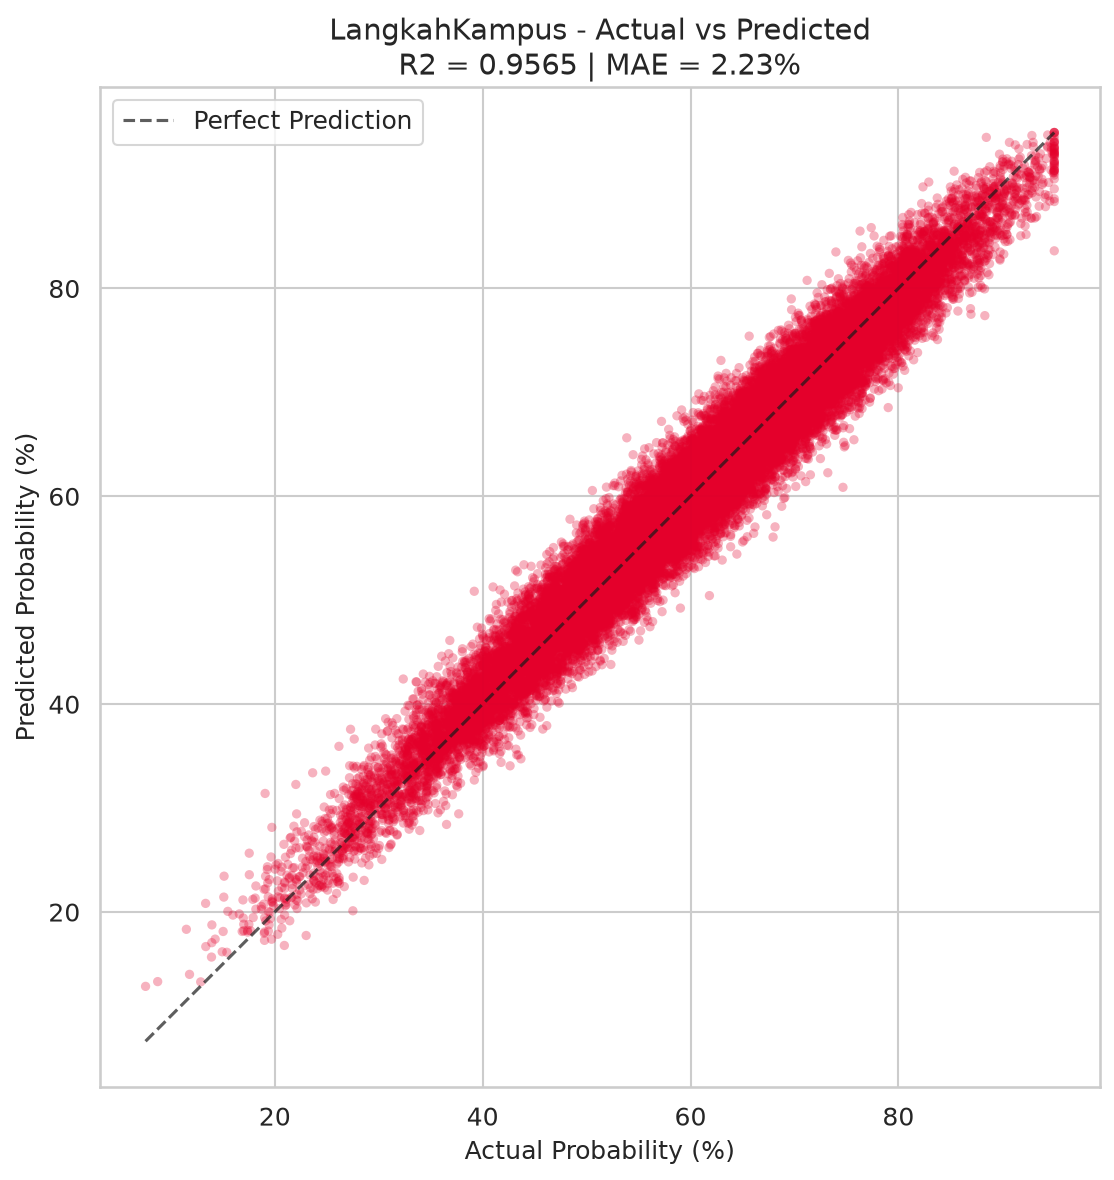
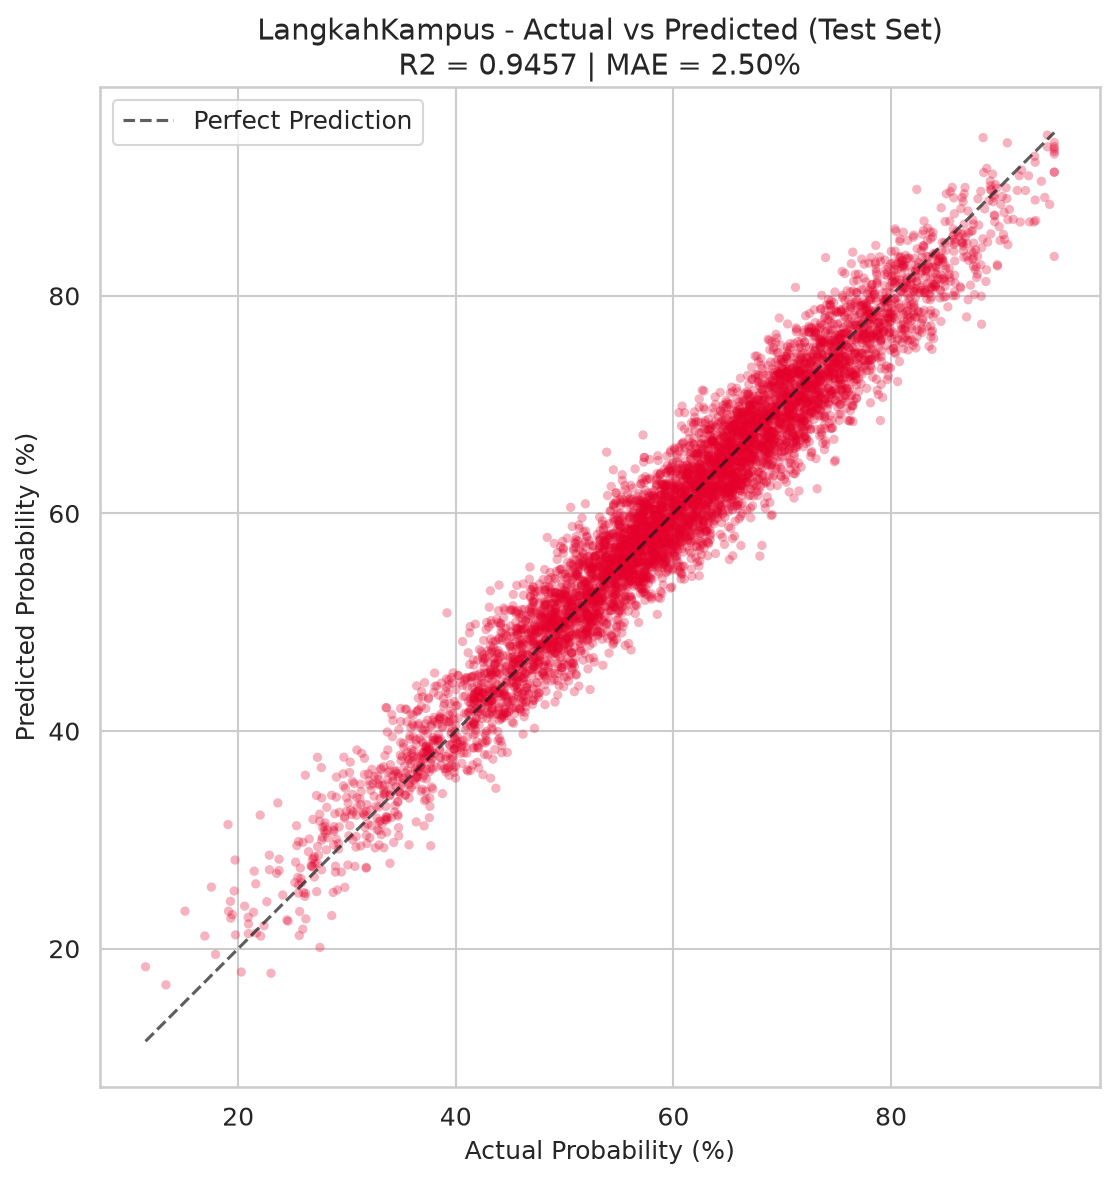
fix: address review findings - history truncation, context reset, test set evaluation
- Fix history truncation to keep newest entries (history[-MAX_HISTORY_ENTRIES:])
- Align MAX_HISTORY_ENTRIES to 20 to match client-side 20-message limit
- Reset conversationHistory in JS when predictionContext changes
- Use train/test split (80/20, random_state=42) in visualize_evaluation.py
- Update chart titles to indicate Test Set evaluation
- Regenerate evaluation chart PNGs with test set data

diff --git a/website/assets/js/advisor.js b/website/assets/js/advisor.js
@@ -5,6 +5,8 @@
 
 // Conversation history for multi-turn chat (max 10 exchanges)
 var conversationHistory = [];
+// Track the last prediction context to detect changes
+var lastPredictionContextKey = null;
 
 document.addEventListener('DOMContentLoaded', function() {
     initChatForm();
@@ -61,6 +63,13 @@ function sendMessage(message) {
             // Ignore invalid stored data
         }
     }
+
+    // Reset conversation history if the prediction context has changed
+    var currentContextKey = predictionContext || '';
+    if (lastPredictionContextKey !== null && currentContextKey !== lastPredictionContextKey) {
+        conversationHistory = [];
+    }
+    lastPredictionContextKey = currentContextKey;
 
     // Include conversation history (limit to last 10 exchanges = 20 messages)
     if (conversationHistory.length > 0) {

diff --git a/ai_backend/training/visualize_evaluation.py b/ai_backend/training/visualize_evaluation.py
@@ -25,6 +25,7 @@ import numpy as np
 import pandas as pd
 import seaborn as sns
 from sklearn.metrics import mean_absolute_error, r2_score
+from sklearn.model_selection import train_test_split
 
 # Paths
 TRAINING_DATA_PATH = os.path.join(
@@ -146,7 +147,7 @@ def plot_actual_vs_predicted(y_actual, y_predicted, output_path):
     ax.set_xlabel("Actual Probability (%)")
     ax.set_ylabel("Predicted Probability (%)")
     ax.set_title(
-        f"LangkahKampus - Actual vs Predicted\n"
+        f"LangkahKampus - Actual vs Predicted (Test Set)\n"
         f"R2 = {r2:.4f} | MAE = {mae:.2f}%"
     )
     ax.legend(loc="upper left")
@@ -183,7 +184,7 @@ def plot_prediction_distribution(y_actual, y_predicted, output_path):
 
     ax.set_xlabel("Probability (%)")
     ax.set_ylabel("Count")
-    ax.set_title("LangkahKampus - Prediction Distribution\n(Actual vs Predicted)")
+    ax.set_title("LangkahKampus - Prediction Distribution (Test Set)\n(Actual vs Predicted)")
     ax.legend()
 
     plt.tight_layout()
@@ -216,7 +217,7 @@ def plot_residuals(y_actual, y_predicted, output_path):
 
     ax.set_xlabel("Predicted Probability (%)")
     ax.set_ylabel("Residual (Actual - Predicted) (%)")
-    ax.set_title("LangkahKampus - Residual Plot\n(Model Error Analysis)")
+    ax.set_title("LangkahKampus - Residual Plot (Test Set)\n(Model Error Analysis)")
     ax.legend()
 
     plt.tight_layout()
@@ -251,8 +252,14 @@ def main():
     X = df[FEATURE_COLS].values
     y = df[TARGET_COL].values
 
-    # Generate predictions
-    y_pred = np.clip(model.predict(X), 0.05, 0.95)
+    # Use a held-out test set (80/20 split) for honest evaluation
+    X_train, X_test, y_train, y_test = train_test_split(
+        X, y, test_size=0.2, random_state=42
+    )
+    print(f"Train/Test split: {len(X_train)} train, {len(X_test)} test samples")
+
+    # Generate predictions on the TEST set only
+    y_pred = np.clip(model.predict(X_test), 0.05, 0.95)
 
     # Setup output directory
     os.makedirs(OUTPUT_DIR, exist_ok=True)
@@ -270,17 +277,17 @@ def main():
     )
 
     plot_actual_vs_predicted(
-        y, y_pred,
+        y_test, y_pred,
         os.path.join(OUTPUT_DIR, "actual_vs_predicted.png"),
     )
 
     plot_prediction_distribution(
-        y, y_pred,
+        y_test, y_pred,
         os.path.join(OUTPUT_DIR, "prediction_distribution.png"),
     )
 
     plot_residuals(
-        y, y_pred,
+        y_test, y_pred,
         os.path.join(OUTPUT_DIR, "residual_plot.png"),
     )
 

diff --git a/ai_backend/app/services/advisor.py b/ai_backend/app/services/advisor.py
@@ -73,8 +73,8 @@ def _sanitize_message(message: str) -> str:
     return message.strip()
 
 
-# Maximum number of history entries allowed
-MAX_HISTORY_ENTRIES = 10
+# Maximum number of history entries allowed (matches client-side limit of 20 messages)
+MAX_HISTORY_ENTRIES = 20
 
 
 async def get_advisor_response(
@@ -93,7 +93,7 @@ async def get_advisor_response(
     # Validate and sanitize conversation history
     validated_history = []
     if history:
-        for entry in history[:MAX_HISTORY_ENTRIES]:
+        for entry in history[-MAX_HISTORY_ENTRIES:]:
             if isinstance(entry, dict):
                 role = entry.get("role", "")
                 content = entry.get("content", "")

diff --git a/.agents/tasks/task-phase5-enhancement-polish/2026-06-30-161500-review.md b/.agents/tasks/task-phase5-enhancement-polish/2026-06-30-161500-review.md
@@ -1,0 +1,99 @@
+# Phase 5 Enhancement & Submission Polish
+
+This change adds five presentation-oriented features for hackathon submission: an AMD GPU training script with ROCm detection, model evaluation chart generation, multi-turn conversation history in the AI advisor, two new AMD-branded landing page sections, and an end-to-end demo script with mock mode. The multi-turn advisor is the only piece that modifies production code paths; the rest are additive scripts and static content.
+
+**Watch for:** The conversation history limit is enforced independently at three layers (JS, Python schema, Python service) with inconsistent caps—20 messages client-side vs 10 entries server-side—and the server takes the *first* 10 entries, discarding recent context (confirmed). The `conversationHistory` array never resets when a new prediction is made, so stale context from a prior session bleeds into subsequent advisor conversations (confirmed). The visualization script evaluates on the full training set, overstating model accuracy in the generated charts (confirmed).
+
+## High-level view
+
+The multi-turn advisor threading flows from JavaScript through PHP to FastAPI with sanitization at the service layer. The prompt is assembled in correct message order (system, context, history, current user message). The critical gap is that the server-side truncation takes `history[:10]` (the *oldest* entries) while the client sends the *last* 20 messages, meaning the backend silently discards the most recent context—exactly the opposite of what's useful.
+
+The landing page additions are inline-styled HTML sections. The AMD sections won't inherit future theme changes made to the shared stylesheet, but for a hackathon deadline this is pragmatic.
+
+The demo script operates in mock and live modes with self-contained hardcoded responses. The visualization script generates four presentation charts but evaluates predictions against the same data the model was trained on, so the reported metrics are in-sample accuracy rather than generalization performance.
+
+<details>
+<summary>Issues (5)</summary>
+
+1. **Server truncates oldest history, discards newest** — `history[:MAX_HISTORY_ENTRIES]` takes the first 10 items from the array. The client sends the *last* 20 messages via `.slice(-20)`. After 5+ exchanges, the server keeps only the oldest context and drops the recent turns. Change to `history[-MAX_HISTORY_ENTRIES:]` or align the cap with the client.
+
+2. **No history reset on new prediction context** — `conversationHistory` is a module-global that never resets. If a user runs a new prediction and returns to the advisor, stale conversation history from the previous prediction is still attached, potentially confusing the LLM with contradictory context. Reset the array when `predictionContext` changes.
+
+3. **Client/server limit semantic mismatch** — JavaScript enforces 20 *messages* (comment says "10 exchanges"); Python enforces 10 *entries*. These should use the same unit and the same number.
+
+4. **`subprocess.run` in ROCm detection without absolute path** — `rocm-smi` is resolved via PATH. In a production deployment the full path (`/opt/rocm/bin/rocm-smi`) would be preferable to avoid PATH-based execution of unintended binaries. Low practical risk for a hackathon.
+
+5. **Visualization evaluates on full training set** — `visualize_evaluation.py` runs predictions on the entire dataset including training samples. The charts and metrics (R2, MAE in the title) overstate real-world accuracy. Consider using a held-out test split.
+
+</details>
+
+<details>
+<summary>Details</summary>
+
+## Client/server history cap mismatch
+
+The JavaScript comment says "max 10 exchanges" and enforces 20 messages (10 user + 10 assistant) via `.slice(-20)`. The Python service constant is `MAX_HISTORY_ENTRIES = 10`, and it slices `history[:MAX_HISTORY_ENTRIES]`—taking the first 10 *items* from the list, regardless of role.
+
+The mismatch means the backend silently drops the most recent history entries (since it takes the *first* 10, not the *last* 10). Combined with the client sending the *last* 20 messages, the server keeps only the oldest 10 of those. Recent context is more valuable than stale context, so this truncation is backwards:
+
+```python
+# Current: keeps oldest entries
+for entry in history[:MAX_HISTORY_ENTRIES]:
+
+# Should be: keeps newest entries
+for entry in history[-MAX_HISTORY_ENTRIES:]:
+```
+
+## No conversation reset across predictions
+
+`conversationHistory` in `advisor.js` is declared at module scope and never cleared. The prediction context comes from `sessionStorage.getItem('lastPrediction')` and updates when a new prediction is made, but the history array still contains exchanges referencing the *old* prediction's probability and variables. The LLM will see contradictory signals: the system context says "probability 45%" while history messages discuss "your 72% chance."
+
+A natural reset point would be when `predictionContext` differs from the last value used.
+
+## Visualization on training data
+
+```python
+X = df[FEATURE_COLS].values
+y = df[TARGET_COL].values
+y_pred = np.clip(model.predict(X), 0.05, 0.95)
+```
+
+The model was trained on this data (or an 80% subset per `train_on_amd_cloud.py`'s `test_size=0.2` split). The resulting scatter plot and R2/MAE figures represent in-sample fit. For the hackathon slides this may be a deliberate choice (better-looking numbers), but the charts should ideally be labeled as training-set evaluation or regenerated on the held-out 20%.
+
+## ROCm detection subprocess
+
+```python
+result = subprocess.run(
+    ["rocm-smi", "--showid"],
+    capture_output=True,
+    text=True,
+    timeout=10,
+)
+```
+
+The 10-second timeout prevents hangs. In a production deployment, using the absolute path `/opt/rocm/bin/rocm-smi` (which the script already checks for via `os.path.exists("/opt/rocm")`) would tighten the execution surface.
+
+</details>
+
+<details>
+<summary>File map</summary>
+
+| File | Change |
+|------|--------|
+| `ai_backend/training/train_on_amd_cloud.py` | New: AMD GPU training script with ROCm detection and CPU fallback |
+| `ai_backend/training/visualize_evaluation.py` | New: generates 4 evaluation chart PNGs from model predictions |
+| `ai_backend/training/evaluation_charts/*.png` | New: generated chart images (4 files) |
+| `ai_backend/app/services/advisor.py` | Added `history` parameter, validation, and message assembly |
+| `ai_backend/app/schemas/prediction.py` | Added `history` field to `AdvisorRequest` |
+| `ai_backend/app/main.py` | Passes `history` kwarg to `get_advisor_response` |
+| `ai_backend/tests/test_api.py` | 3 new tests: history handling, empty history, history sanitization |
+| `ai_backend/requirements.txt` | Added `matplotlib>=3.7.0`, `seaborn>=0.12.0` |
+| `ai_backend/models/prediction_model.joblib` | Updated binary (re-trained model) |
+| `website/index.php` | Two new HTML sections: "Powered by AMD" and "AI Technology Stack" |
+| `website/api/advisor.php` | Passes `history` array through to Python backend |
+| `website/assets/js/advisor.js` | Tracks `conversationHistory`, sends it with each advisor request |
+| `demo/demo_script.py` | New: end-to-end demo with mock and live modes |
+
+Full diff: `git diff 0ff9258 HEAD`
+
+</details>
